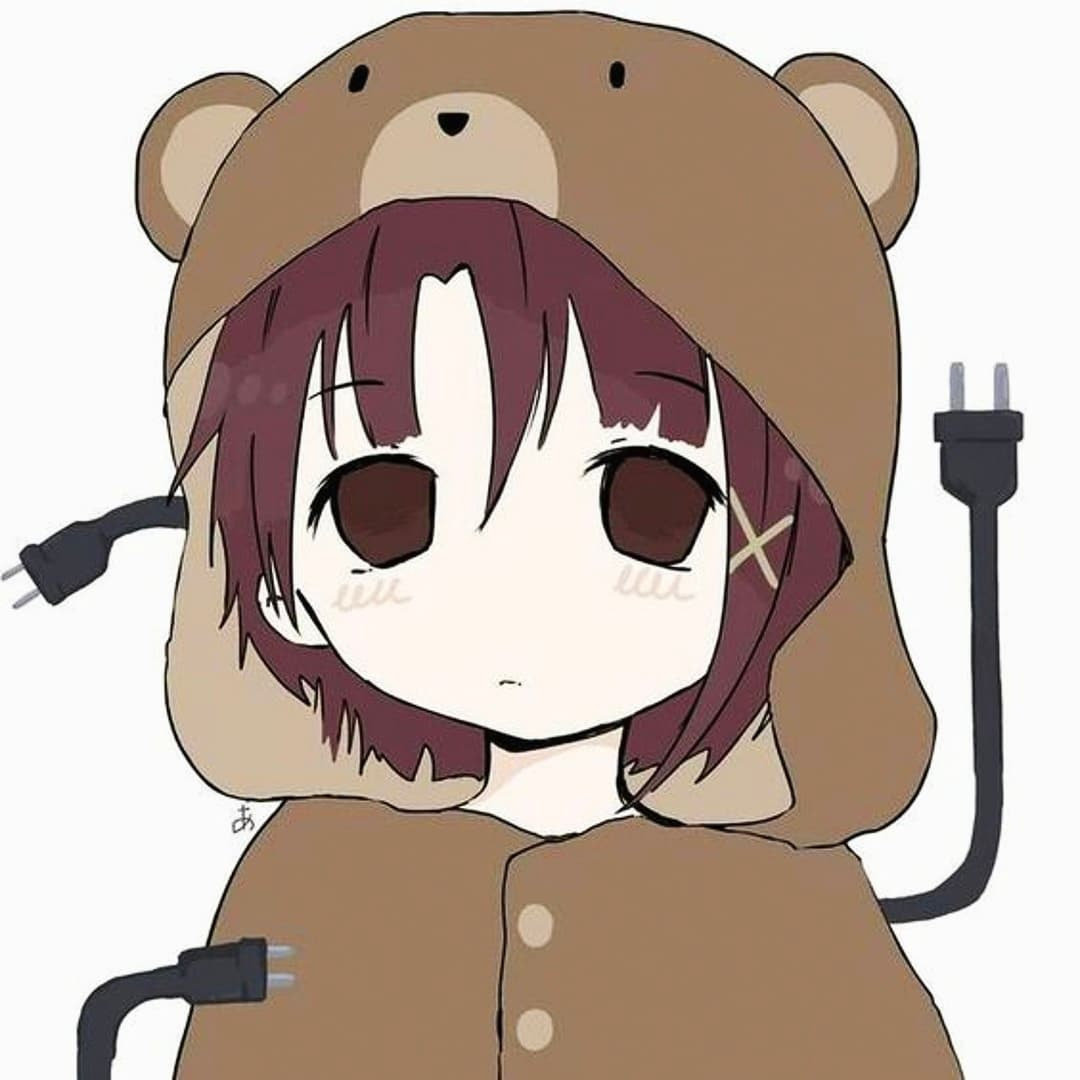
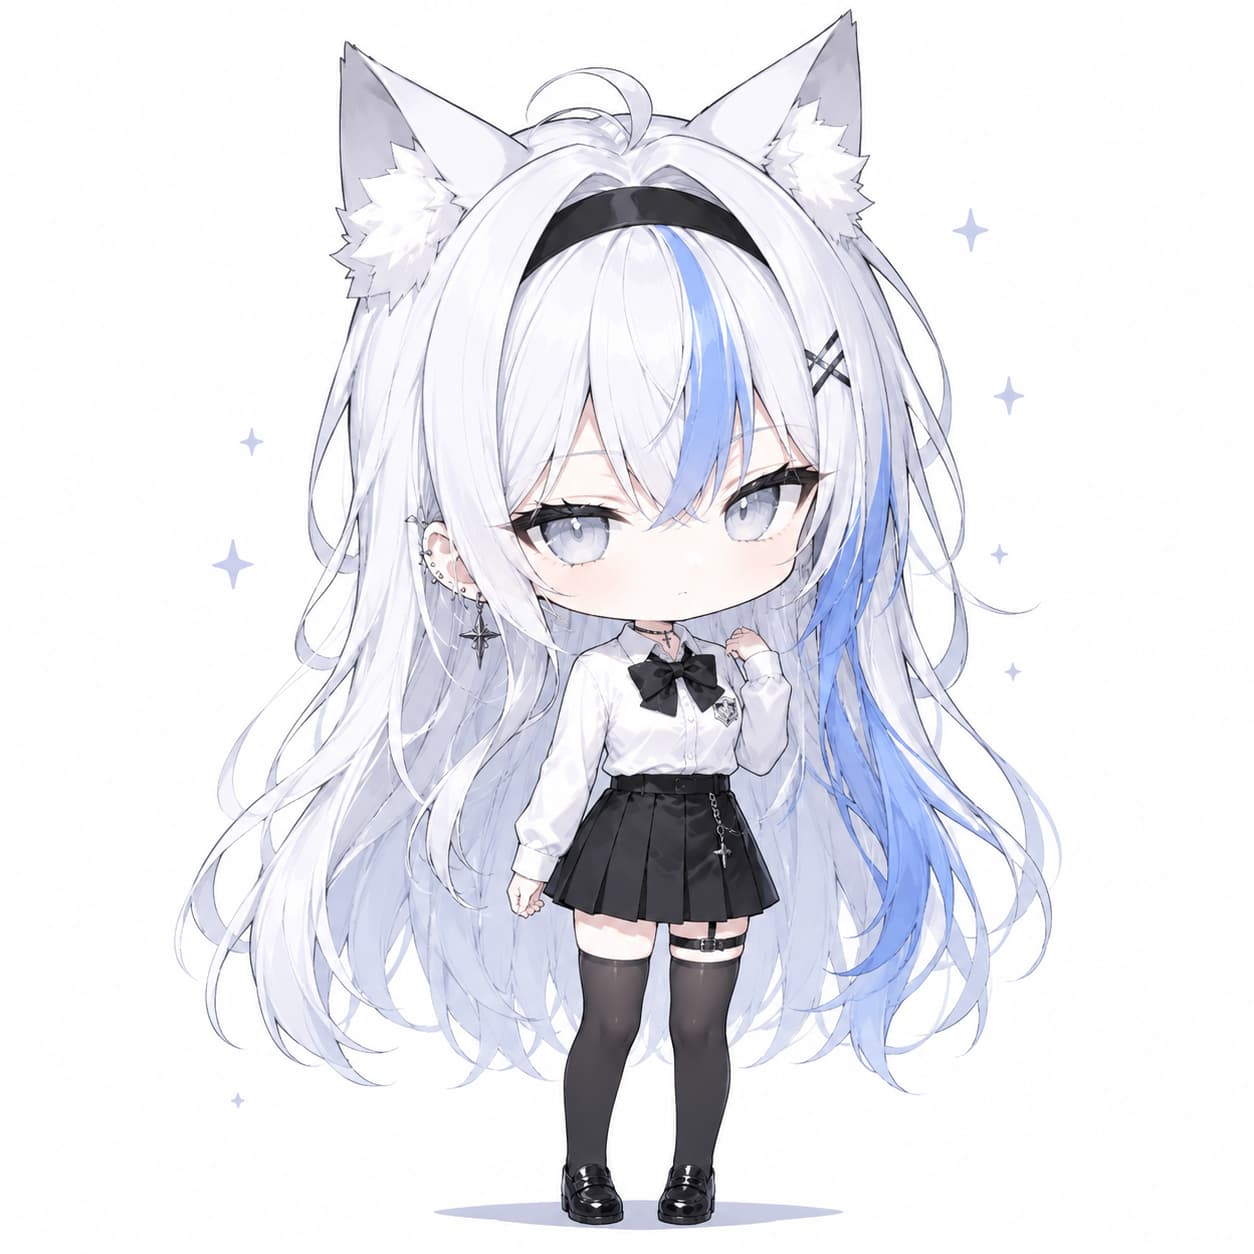
chore: 网站图片更新

diff --git a/blog-background/index.html b/blog-background/index.html
@@ -2,7 +2,7 @@
 <html lang="en">
   <head>
     <meta charset="UTF-8" />
-    <link rel="icon" type="image/svg+xml" href="./src/assets/vite.svg" />
+    <link rel="icon" type="image/svg+xml" href="./src/assets/avatar.jpg" />
     <meta name="viewport" content="width=device-width, initial-scale=1.0" />
     <script type="module" src="./src/js/iconfont.js"></script>
     <title>后台管理系统</title>